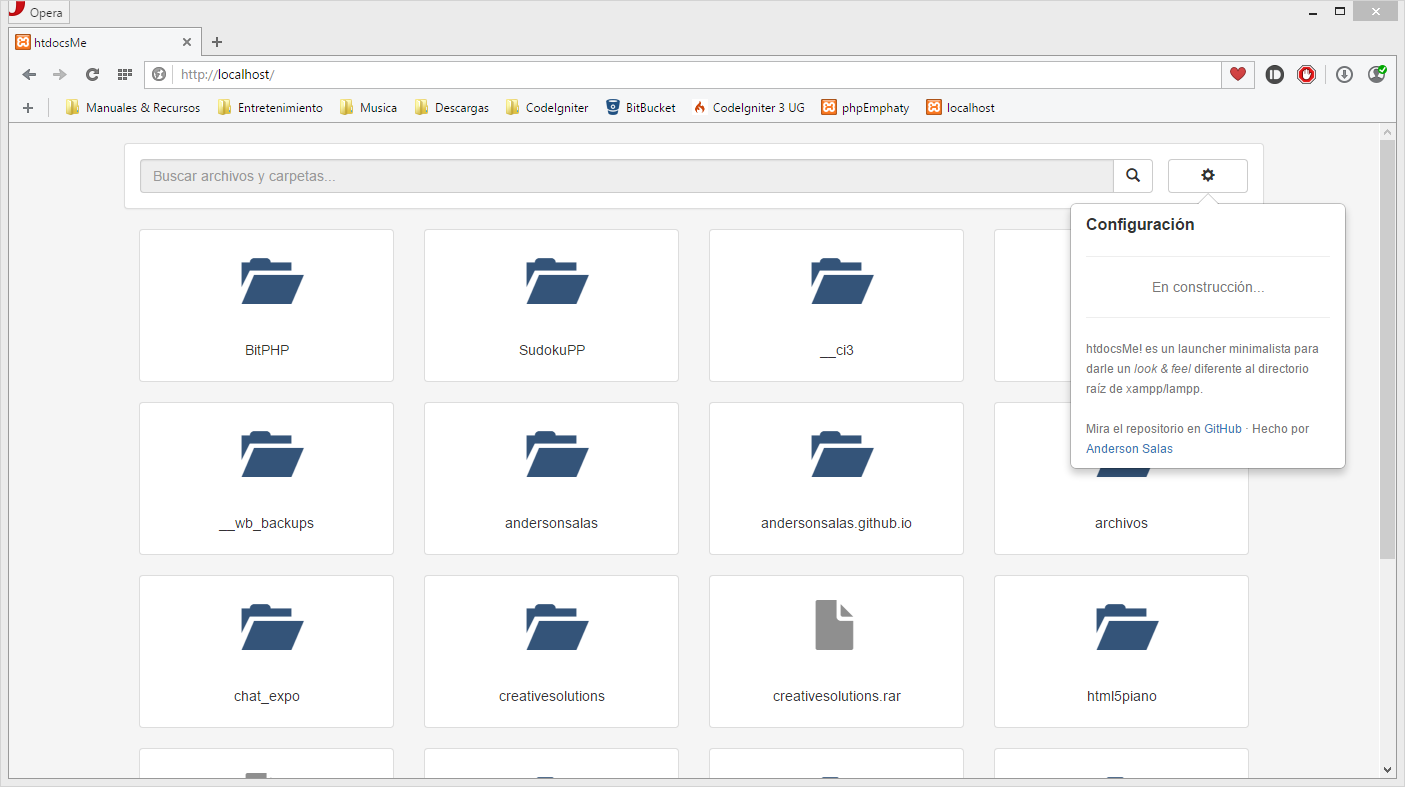
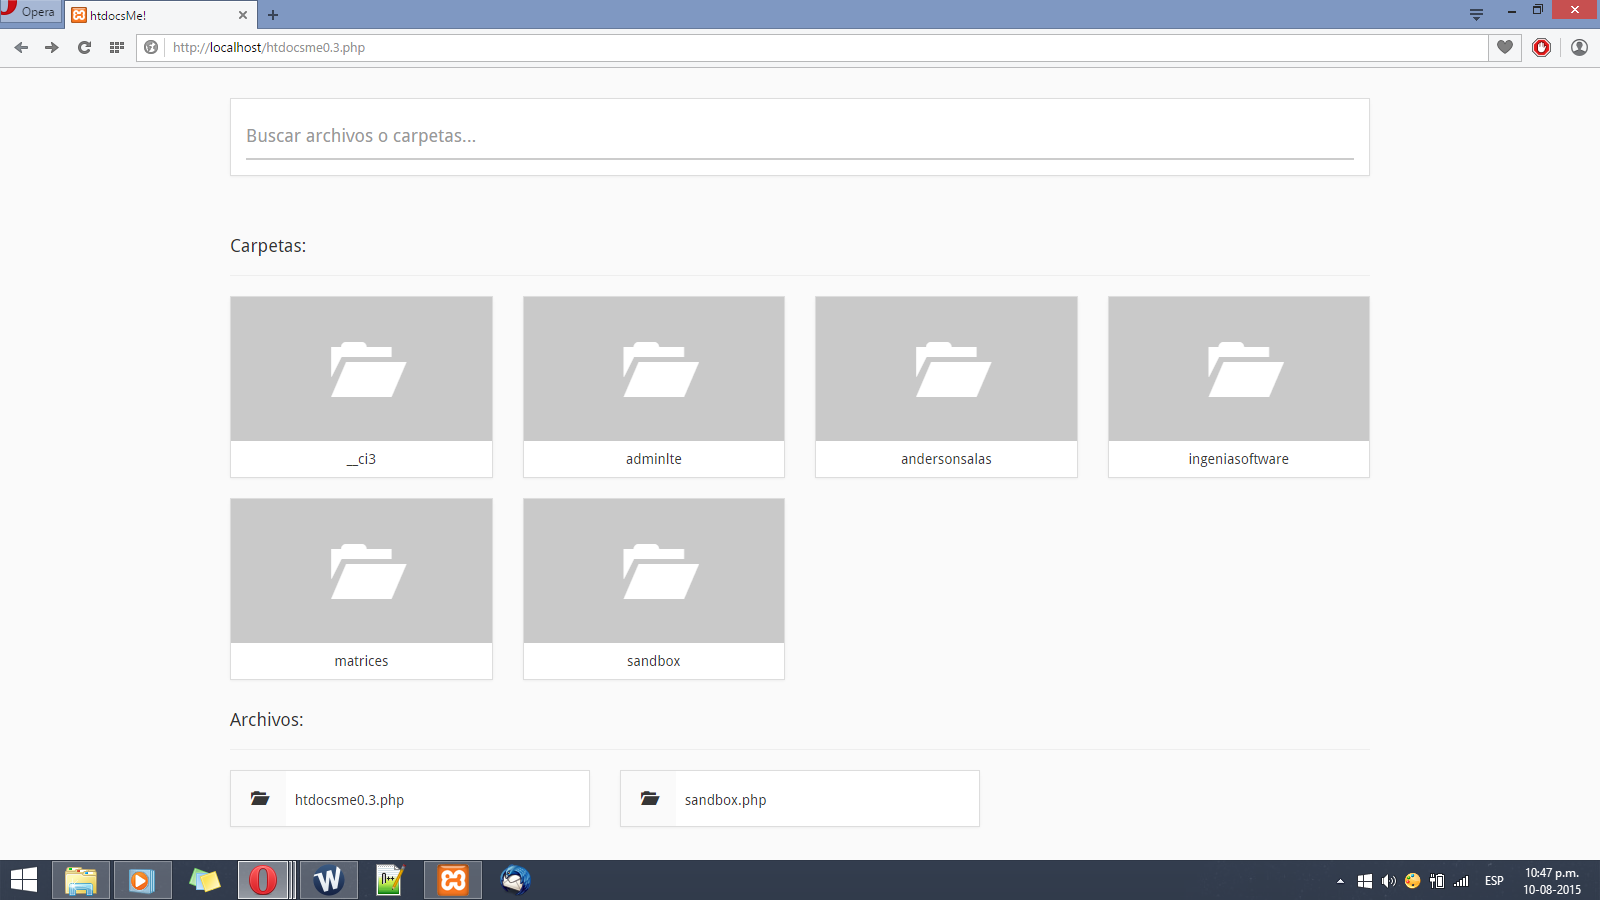
Versión 0.3
Búsqueda de archivos, ajustes visuales y limpieza de código innecesario.

diff --git a/index.php b/index.php
@@ -1,168 +1,239 @@
 <?php
 /*
- * htdocsMe (versión 0.1)
+ * htdocsMe (versión 0.3)
  *
  * Desarrollado por Anderson Salas (contacto@andersonsalas.com.ve)
- * Mira el repositorio en GitHub: https://github.com/andersonsalas/htdocsMe
- *---------------------------------------------------------------------------------------*
+ * Repositorio en GitHub: https://github.com/andersonsalas/htdocsMe
+ *
+ * -------------------------------------------------------------------------------------
+ *
+ *   htdocsMe
+ *   Copyright (C) 2015 Anderson Salas
+ *
+ *   This program is free software; you can redistribute it and/or modify
+ *   it under the terms of the GNU General Public License as published by
+ *   the Free Software Foundation; either version 2 of the License, or
+ *   (at your option) any later version.
+ *
+ *   This program is distributed in the hope that it will be useful,
+ *   but WITHOUT ANY WARRANTY; without even the implied warranty of
+ *   MERCHANTABILITY or FITNESS FOR A PARTICULAR PURPOSE.  See the
+ *   GNU General Public License for more details.
+ *
+ *   You should have received a copy of the GNU General Public License along
+ *   with this program; if not, write to the Free Software Foundation, Inc.,
+ *   51 Franklin Street, Fifth Floor, Boston, MA 02110-1301 USA.
+ */
 
-    htdocsMe
-    Copyright (C) 2015 Anderson Salas
+function rglob($pattern, $flags = 0) {
+    // Funcion para hacer un glob() recursivo. Tomado de:
+    // http://stackoverflow.com/a/17161106
 
-    This program is free software; you can redistribute it and/or modify
-    it under the terms of the GNU General Public License as published by
-    the Free Software Foundation; either version 2 of the License, or
-    (at your option) any later version.
-
-    This program is distributed in the hope that it will be useful,
-    but WITHOUT ANY WARRANTY; without even the implied warranty of
-    MERCHANTABILITY or FITNESS FOR A PARTICULAR PURPOSE.  See the
-    GNU General Public License for more details.
-
-    You should have received a copy of the GNU General Public License along
-    with this program; if not, write to the Free Software Foundation, Inc.,
-    51 Franklin Street, Fifth Floor, Boston, MA 02110-1301 USA.
-*----------------------------------------------------------------------------------------*
-
-  Inicialización de htdocsMe!
-*****************************************************************************************/
-# Sesion
-session_name('htdocsme_session');
-session_start();
-$config =& $_SESSION;
-
-# Timeout de 15 minutos (no se para que pueda servir, pero allí está por si acaso)
-if(!isset($config['timeout'])){
-    $config['timeout'] = time() + 900;
-} else {
-    if($config['timeout'] < time()){
-        unset($config['timeout']);
-        header('Location: ?init');
-        die;
+    $files = glob($pattern, $flags);
+    foreach (glob(dirname($pattern).'/*', GLOB_ONLYDIR|GLOB_NOSORT) as $dir) {
+        $files = array_merge($files, rglob($dir.'/'.basename($pattern), $flags));
     }
+    return $files;
 }
 
-# Construyendo el arbol de directorios inicial
-if(!isset($config['arbol_dir'])){
-    $c = 0;
-    foreach(scandir(__dir__) as $carpeta){
-        if($carpeta != '.' && $carpeta != '..') $config['arbol_dir'][$c] = $carpeta;
-        $c++;
-    } unset($c);
+if(isset($_POST['busqueda'])){
+    $resultado = rglob(trim($_POST['busqueda']));
+    if(!empty($resultado)){
+        echo '<p class="text-muted">'.count($resultado).' concidencia(s) en total</p>';
+        foreach($resultado as $res){
+            echo '<a href="'.$res.'">'.$res.'</a><br>';
+        }
+    } else {
+        echo 'No hubo resultados.<br>';
+    }
+    die();
 }
-
-# Nombre por defecto: htdocsMe!
-if(!isset($config['tituloPagina'])) $config['tituloPagina'] = 'htdocsMe';
-
-/* ------------------------------------------------------------------------------------ */
-
-// var_dump($config);
 
 ?><!DOCTYPE html>
-<html lang="en">
+<html lang="es">
     <head>
         <meta charset="utf-8">
         <meta http-equiv="X-UA-Compatible" content="IE=edge">
         <meta name="viewport" content="width=device-width, initial-scale=1">
-        <title><?= $config['tituloPagina'];?></title>
-        <link rel="stylesheet" href="https://maxcdn.bootstrapcdn.com/bootstrap/3.3.4/css/bootstrap.min.css">
+        <title>htdocsMe!</title>
+        <link rel="stylesheet" href="https://maxcdn.bootstrapcdn.com/bootstrap/3.3.5/css/bootstrap.min.css">
+        <link rel="stylesheet" href="https://maxcdn.bootstrapcdn.com/bootstrap/3.3.5/css/bootstrap-theme.min.css">
+        <link href="http://fonts.googleapis.com/css?family=Droid+Sans" rel="stylesheet" type="text/css">
+        <!-- HTML5 shim and Respond.js for IE8 support of HTML5 elements and media queries -->
+        <!-- WARNING: Respond.js doesn't work if you view the page via file:// -->
+        <!--[if lt IE 9]>
+            <script src="https://oss.maxcdn.com/html5shiv/3.7.2/html5shiv.min.js"></script>
+            <script src="https://oss.maxcdn.com/respond/1.4.2/respond.min.js"></script>
+        <![endif]-->
         <script src="https://ajax.googleapis.com/ajax/libs/jquery/1.11.2/jquery.min.js"></script>
-        <script src="https://maxcdn.bootstrapcdn.com/bootstrap/3.3.4/js/bootstrap.min.js"></script>
-        <script>/* ¡NO al iframe! */if(window.top !== window.self) window.top.location.replace(window.self.location.href);</script>
-        <style type="text/css">
+        <script src="https://maxcdn.bootstrapcdn.com/bootstrap/3.3.5/js/bootstrap.min.js"></script>
+        <style>
             body{
-                background: #F5F5F5;
+                background: #FAFAFA;
+                font-family: "Droid Sans"
             }
-            .configuracion-popover{
-                width:350px !important
+            .main-container{
+                padding-top:30px;
             }
-            .carpeta-glypicon{
-                color: #345479;
-                font-size: 50px;
-                text-align: center;
-                display:block;
-                padding: 20px 0px;
+            .search-box, .search-box *, .carpeta, .archivo{
+                border-radius: 0px;
             }
-            .archivo-glypicon{
-                color: #8F8F8F;
-                font-size: 50px;
-                text-align: center;
-                display:block;
-                padding: 20px 0px;
+            .search-box{
+                margin-bottom: 50px;
             }
 
+            .carpeta > div, .archivo > div{
+                padding: 0px;
+            }
+
+            .carpeta:hover, .archivo:hover{
+                box-shadow: 0px 0px 15px 0px rgba(0,0,0,0.3);
+            }
+            .carpeta:hover .icono-carpeta, .archivo:hover .icono-archivo{
+                background: #5E9EE8;
+            }
+            .carpeta .glyphicon{
+                font-size:60px;
+            }
+            .carpeta-href:hover, .carpeta-href:focus{
+                text-decoration: none !important;
+            }
+            .carpeta p, .archivo p{
+                margin: 0px;
+                color: #363636;
+            }
+            .carpeta p{
+                padding: 8px 0px;
+            }
+            .icono-archivo{
+                background: #FAFAFA;
+                padding: 20px;
+                top: 0px;
+                margin-right: 5px;
+                font-size:15px
+            }
+            .archivo:hover .icono-archivo{
+                color: white;
+            }
+            .icono-carpeta{
+                width: 100%;
+                display: block;
+                padding: 40px;
+                background: #C9C9C9;
+                color:white;
+            }
+            .search-box input{
+                border-top: none;
+                border-left: none;
+                border-right: none;
+                border-bottom-width: 2px;
+                padding-left: 0px;
+                padding-right: 0px;
+                box-shadow: none !important;
+            }
+            .search-res{
+                display: none;
+            }
 
         </style>
-        <script type="text/javascript">
-            $(document).ready(function(){
-                $('.configuracion').popover(
-                    {
-                        html : true,
-                        template: '<div class="popover configuracion-popover" role="tooltip"><div class="arrow"></div><h3 class="popover-title"></h3><div class="popover-content"></div></div>',
-                    }
-                );
-            })
-        </script>
     </head>
     <body>
-        <div class="container">
-            <!-- Barra Superior [ -->
+        <div class="container main-container">
             <div class="row">
                 <div class="col-md-12">
-                    <div class="panel panel-default" style="margin-top:20px;">
+                    <div class="search-box panel panel-default">
                         <div class="panel-body">
-                            <div class="row">
-                                <div class="col-xs-11">
-                                    <div class="input-group">
-                                        <input type="text" placeholder="Buscar archivos y carpetas..." class="form-control" disabled/>
-                                        <span class="input-group-btn">
-                                            <button class="btn btn-default" type="button"><span class="glyphicon glyphicon-search"></span> </button>
-                                        </span>
-                                    </div>
-
-                                </div>
-                                <div class="col-xs-1" style="padding-left: 0px">
-                                    <?php
-                                    $config_html = trim(str_replace('"',"'",'
-                                        <p style="font-size:16px; font-weight:bold">Configuración</p>
-                                        <hr />
-                                        <p class="text-center text-muted">En construcción...</p>
-                                        <hr />
-                                        <small class="text-muted">htdocsMe! es un launcher minimalista para darle un <em>look & feel</em> diferente al directorio raíz de xampp/lampp.<br><br>Mira el repositorio en <a href="http://github.com/andersonsalas/htdocsMe">GitHub</a> &middot; Hecho por <a href="http://github.com/andersonsalas">Anderson Salas</a</a></small>
-                                    '));
-                                    ?>
-                                    <button type="button" class="btn btn-default btn-block configuracion" data-container="body" data-toggle="popover" data-placement="bottom" data-content="<?= $config_html; ?>"><span class="glyphicon glyphicon-cog"></span></button>
-                                </div>
-                            </div>
-
+                            <input type="text" class="form-control input-lg input-busqueda" placeholder="Buscar archivos o carpetas..." />
                         </div>
                     </div>
                 </div>
             </div>
-            <!-- ] -->
-            <!-- Thumbnails [ -->
-            <div class="row">
+            <div class="row search-res" style="display:none">
                 <div class="col-md-12">
-                    <?php foreach($config['arbol_dir'] as $carpeta){ ?>
-                        <div class="col-xs-6 col-md-3">
-                            <a href="<?= $carpeta;?>" class="thumbnail">
+                    <h4>Resultado de la búsqueda "<span class="busqueda"></span>":</h4>
+                    <hr />
+                    <div class="area-res">
 
-                                <?php if(is_dir(__dir__.'/'.$carpeta)){?>
-                                    <span class="glyphicon glyphicon-folder-open carpeta-glypicon"></span>
-                                <?php } else {?>
-                                    <span class="glyphicon glyphicon-file archivo-glypicon"></span>
-                                <?php } ?>
-
-                                <div class="caption">
-                                    <h5 class="text-center"><?= $carpeta;?></h5>
-                                </div>
-
-                            </a>
-                        </div>
-                    <?php } ?>
+                    </div>
                 </div>
             </div>
-            <!-- ] -->
+            <div class="row folder-view">
+                <div class="col-md-12">
+                    <h4>Carpetas:</h4>
+                    <hr />
+                </div>
+                <?php foreach(scandir(__DIR__) as $carpeta){ ?>
+                    <?php if($carpeta == '.' || $carpeta == '..' || !is_dir($carpeta)) continue; ?>
+                    <div class="col-md-3 col-xs-6">
+                        <a href="/<?= $carpeta;?>" class="carpeta-href">
+                            <div class="panel panel-default carpeta">
+                                <div class="panel-body text-center">
+                                    <div class="icono-carpeta">
+                                        <span class="glyphicon glyphicon-folder-open" aria-hidden="true"></span>
+                                    </div>
+                                    <p><?= $carpeta; ?></p>
+                                </div>
+                            </div>
+                        </a>
+                    </div>
+                <?php } ?>
+            </div>
+            <div class="row files-view">
+                <div class="col-md-12">
+                    <h4>Archivos:</h4>
+                    <hr />
+                </div>
+                <?php foreach(scandir(__DIR__) as $carpeta){ ?>
+                    <?php if($carpeta == '.' || $carpeta == '..' || !is_file($carpeta)) continue; ?>
+                    <div class="col-xs-4">
+                        <a href="/<?= $carpeta;?>" class="carpeta-href">
+                            <div class="panel panel-default archivo">
+                                <div class="panel-body">
+
+                                    <p><span class="glyphicon glyphicon-folder-open icono-archivo" aria-hidden="true"></span> <?= $carpeta; ?></p>
+                                </div>
+                            </div>
+                        </a>
+                    </div>
+                <?php } ?>
+            </div>
         </div>
+        <script type="text/javascript">
+            $(document).ready(function(){
+
+                var busqueda = '';
+
+                // Tomado de:
+                // http://stackoverflow.com/a/1909508
+                var delay = (function(){
+                    var timer = 0;
+                    return function(callback, ms){
+                        clearTimeout (timer);
+                        timer = setTimeout(callback, ms);
+                    };
+                })();
+
+                $('.input-busqueda').keyup(function(){
+                    $('.area-res').html('<br><br><br><p class="text-center">Buscando...</p>');
+                    delay(function(){
+                        busqueda = $('.input-busqueda').val();
+                        $('.busqueda').text(busqueda);
+                        if(busqueda != ''){
+                            $('.search-res').show();
+                            $('.search-box').css('margin-bottom','10px');
+                            $('.folder-view, .files-view').hide();
+                            $.post('<?= $_SERVER["REQUEST_URI"];?>', {'busqueda':busqueda}, function(data){
+                                $('.area-res').html(data);
+                            });
+                        } else {
+                            $('.search-res').hide();
+                            $('.search-box').css('margin-bottom','30px');
+                            $('.folder-view, .files-view').show();
+                        }
+                    },1000);
+                });
+
+            })
+        </script>
     </body>
 </html>
